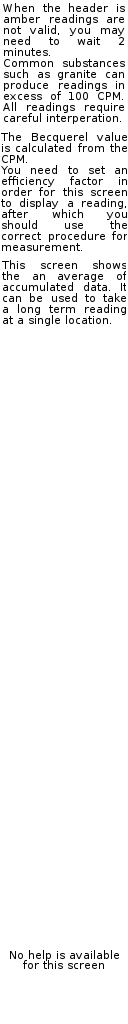
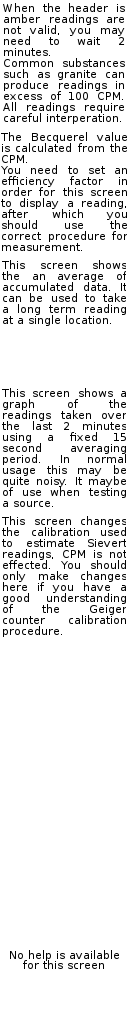
updated help screens, filling out log_read functions and migrating serial interface code to use these.

Changed region(s): [[0.0, 0.375, 1.0, 0.625], [0.5938, 0.5938, 0.625, 0.625]]

diff --git a/firmware/serialinterface/serialinterface.cpp b/firmware/serialinterface/serialinterface.cpp
@@ -10,6 +10,7 @@
 #include "display.h"
 #include <limits.h>
 #include "dac.h"
+#include "log_read.h"
 
 extern "C" {
   static void signing_test();
@@ -58,33 +59,14 @@ void serial_write_string(const char *str) {
 
 void serial_sendlog() {
 
-  log_data_t *flash_log = (log_data_t *) flashstorage_log_get();
+  log_read_start();
+  for(;;) {
+    char buffer[1024];
+    int size = log_read_block(buffer);
 
-  uint32_t logsize = flashstorage_log_size()/sizeof(log_data_t);
-
-  char lsize[20];
-  sprintf(lsize,"Log size: %u\n",logsize);
-  serial_write_string(lsize);
-  //char s[1000];
-  //sprintf(s,"%u",flashstorage_log_size());
-  //serial_write_string(s);
-  serial_write_string("{\n");
-  for(uint32_t n=0;n<logsize;n++) {
-      
-    char strdata1[500];
-    char strdata2[500];
-    char strdata3[500];
-    sprintf(strdata1,"{\"unixtime\":%u,\"cpm\":%u,",flash_log[n].time,flash_log[n].cpm);
-    sprintf(strdata2,"\"accel_x_start\":%d,\"accel_y_start\":%d,\"accel_z_start\":%d,",flash_log[n].accel_x_start,flash_log[n].accel_y_start,flash_log[n].accel_z_start);
-    sprintf(strdata3,"\"accel_x_end\":%d,\"accel_y_end\":%d,\"accel_z_end\":%d}\r\n",flash_log[n].accel_x_end,flash_log[n].accel_y_end,flash_log[n].accel_z_end);
-    strdata1[499]=0;
-    strdata2[499]=0;
-    strdata3[499]=0;
-    serial_write_string(strdata1);
-    serial_write_string(strdata2);
-    serial_write_string(strdata3);
+    if(size != 0) serial_write_string(buffer);
+    if(size == 0) return;
   }
-  serial_write_string("}");
 }
 
 void serial_readprivatekey() {

diff --git a/firmware/gui/screen_layout.cpp b/firmware/gui/screen_layout.cpp
@@ -64,7 +64,7 @@ __FLASH__ screen screens_layout[SCREEN_COUNT] = {
     { ITEM_TYPE_GRAPH   , 4 , 110, "RECENTDATA"     , 255 },
     { ITEM_TYPE_LABEL   ,255, 112, "CPM last 2 mins", 17  }
   }
-  ,7
+  ,3
 },
 
 //Screen 5 - Calibration Confirmation
@@ -76,7 +76,7 @@ __FLASH__ screen screens_layout[SCREEN_COUNT] = {
     { ITEM_TYPE_MENU , 3 , 4  , "     Cancel     " , 18 },
     { ITEM_TYPE_LABEL,255, 16 , "Are you sure?"    , 19 }
   }
-  ,7
+  ,4
 },
 
 //Screen 6 - Calibration Wait 1
@@ -88,7 +88,7 @@ __FLASH__ screen screens_layout[SCREEN_COUNT] = {
     { ITEM_TYPE_LABEL,255, 80, "to source."      , 22 },
     { ITEM_TYPE_DELAY, 60,100,"DELAYA\0 16,7"    , 255 } // 16 second delay, then go to screen 7
   } 
-  ,7
+  ,255
 },
 
 //Screen 7 - Calibration Wait 2
@@ -98,7 +98,7 @@ __FLASH__ screen screens_layout[SCREEN_COUNT] = {
     { ITEM_TYPE_LABEL,255, 32, "Acquiring, 30s" , 23 },
     { ITEM_TYPE_DELAY, 60,100,"DELAYB\0 31,8"   , 255 } // 31 second delay
   } 
-  ,7
+  ,255
 }, 
     
 
@@ -114,7 +114,7 @@ __FLASH__ screen screens_layout[SCREEN_COUNT] = {
     { ITEM_TYPE_MENU_ACTION,  0,   7, "Save:Calib", 2 },
     { ITEM_TYPE_ACTION     ,  0,   0, "CALIBRATE", 255 }
   }
-  ,7
+  ,4
 },
 
 //Screen 9 - Set time/date
@@ -211,7 +211,7 @@ __FLASH__ screen screens_layout[SCREEN_COUNT] = {
     { ITEM_TYPE_VARLABEL   ,255,90, "TTTIME"     , 255},
     { ITEM_TYPE_ACTION     ,  2, 2, "TOTALTIMER" , 255}
   }
-  ,7
+  ,2
 },
 
 //Screen 16 - User interface settings

diff --git a/firmware/controller/Controller.cpp b/firmware/controller/Controller.cpp
@@ -314,6 +314,8 @@ void Controller::receive_gui_event(char *event,char *value) {
     char sloginterval[50];
     sprintf(sloginterval,"%u",m_log_interval_seconds);
     flashstorage_keyval_set("LOGINTERVAL",sloginterval);
+    uint32_t current_time = realtime_get_unixtime();
+    rtc_set_alarm(RTC,current_time+m_log_interval_seconds);
     m_gui->jump_to_screen(0);
   } else
   if(strcmp(event,"CALIBRATE") == 0) {

diff --git a/firmware/gui/GUI.cpp b/firmware/gui/GUI.cpp
@@ -690,7 +690,7 @@ GUI::GUI(Controller &r) : receive_gui_events(r) {
 
   m_displaying_help = false;
   m_repeat_time = 0;
-  m_repeat_delay= 5;
+  m_repeat_delay= 8;
   m_repeating = false;
   new_keys_size = 0;
   clear_next_render=false;

diff --git a/firmware/log_read/log_read.h b/firmware/log_read/log_read.h
@@ -1,7 +1,11 @@
 #ifndef LOGREAD_H
 #define LOGREAD_H
 
+extern "C" {
+
 void log_read_start();
 int log_read_block(char *buf);
+
+}
 
 #endif

diff --git a/firmware/misc/log.h b/firmware/misc/log.h
@@ -1,6 +1,8 @@
 #ifndef LOG_H
 #define LOG_H
 
+#include <stdint.h>
+
 struct log_data_t {
   uint32_t time;
   uint32_t cpm;
